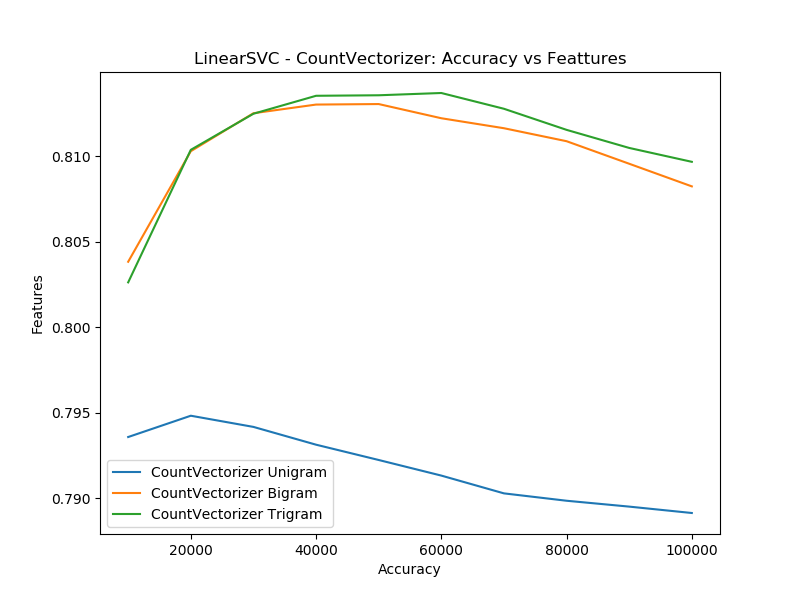
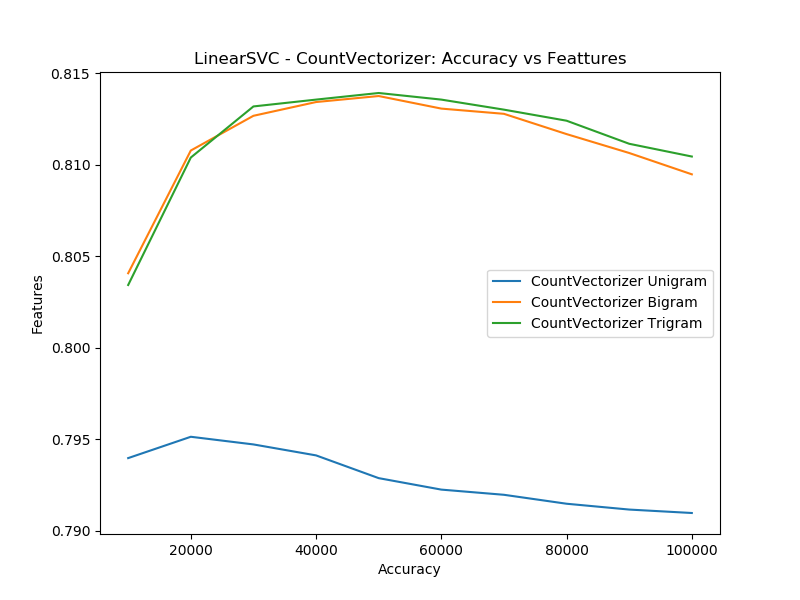
vectorizer fit only training data.

diff --git a/src/sentiment.py b/src/sentiment.py
@@ -100,7 +100,6 @@ class TwitterDataset(object):
         words = [ x for x in self._word_tokenizer.tokenize(letters_only) if len(x) > 1 ]
         return (' '.join(words)).strip()
 
-
 def prepare_pipeline(classifier, vectorizer, n_features, ngram_range=(1,1), stop_words=None, **kwargs):
     pipelines = []
     for n in n_features:
@@ -128,11 +127,10 @@ def plot(title, axis_label, data):
     plt.legend()
     plt.savefig("N-gram_accuracy.png")
 
-def extract_features(cvec, nfeatures, corpus, x_train, x_test):
+def extract_features(cvec, nfeatures, x_train, x_test):
     print(cvec.__class__.__name__, ': ngram_range=', cvec.ngram_range, ',max_features:', nfeatures)
     stime = time.time()
-    cvec.fit(corpus)
-    X_train = cvec.transform(x_train)
+    X_train = cvec.fit_transform(x_train)
     X_test  = cvec.transform(x_test)
     print(cvec.__class__.__name__, ': ngram_range=', cvec.ngram_range, ',max_features:', nfeatures, 'Time taken: ', time.time() - stime)
     return (nfeatures, X_train, X_test)
@@ -142,7 +140,7 @@ def train_classifier(classifier, nfeatures, X_train, y_train, X_test, y_test):
     try:
         classifier.fit(X_train, y_train)
         prediction = classifier.predict(X_test)
-        return (nfeatures, metrics.accuracy_score(prediction, y_test))
+        return (nfeatures, metrics.accuracy_score(y_test, prediction))
     finally:
         print('Time taken by classifier ', classifier.__class__.__name__, ' : ', time.time() - stime)
 
@@ -154,7 +152,6 @@ def train(vectorizer):
     dataset = TwitterDataset('dataset/preprocessed_twitter_dataset.csv', columns=['sentiment', 'text'])
     dataset.load()
     dataset.drop_null_entries()
-    corpus = dataset.df['text']
     x_train, x_test, y_train, y_test = model_selection.train_test_split(dataset.df['text'], dataset.df['sentiment'])
 
     stop_words = None
@@ -170,13 +167,13 @@ def train(vectorizer):
     tg_result = []
     for n in n_features:
         ug_cvec = vectorizer(encoding='UTF-8', max_features=n, stop_words=stop_words)
-        ug_result.append( pool.apply_async(extract_features, (ug_cvec, n, corpus, x_train, x_test)) )
+        ug_result.append( pool.apply_async(extract_features, (ug_cvec, n, x_train, x_test)) )
 
         bg_cvec = vectorizer(encoding='UTF-8', max_features=n, stop_words=stop_words, ngram_range=(1,2))
-        bg_result.append( pool.apply_async(extract_features, (bg_cvec, n, corpus, x_train, x_test)) )
+        bg_result.append( pool.apply_async(extract_features, (bg_cvec, n, x_train, x_test)) )
 
         tg_cvec = vectorizer(encoding='UTF-8', max_features=n, stop_words=stop_words, ngram_range=(1,3))
-        tg_result.append( pool.apply_async(extract_features, (tg_cvec, n, corpus, x_train, x_test)) )
+        tg_result.append( pool.apply_async(extract_features, (tg_cvec, n, x_train, x_test)) )
 
 
     for res in ug_result:
